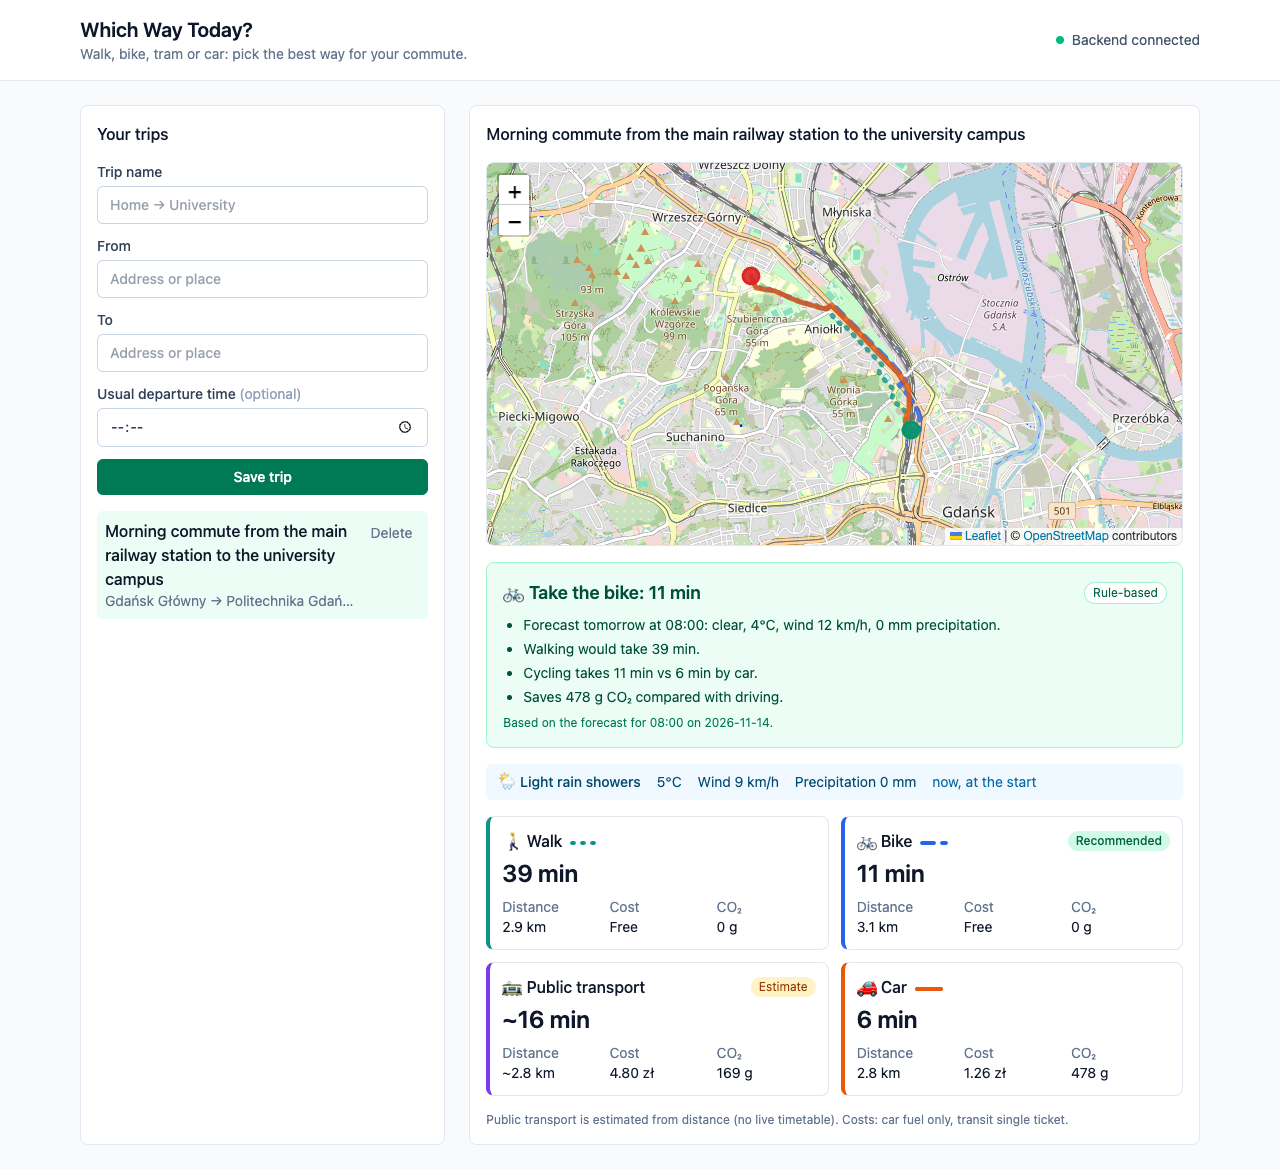
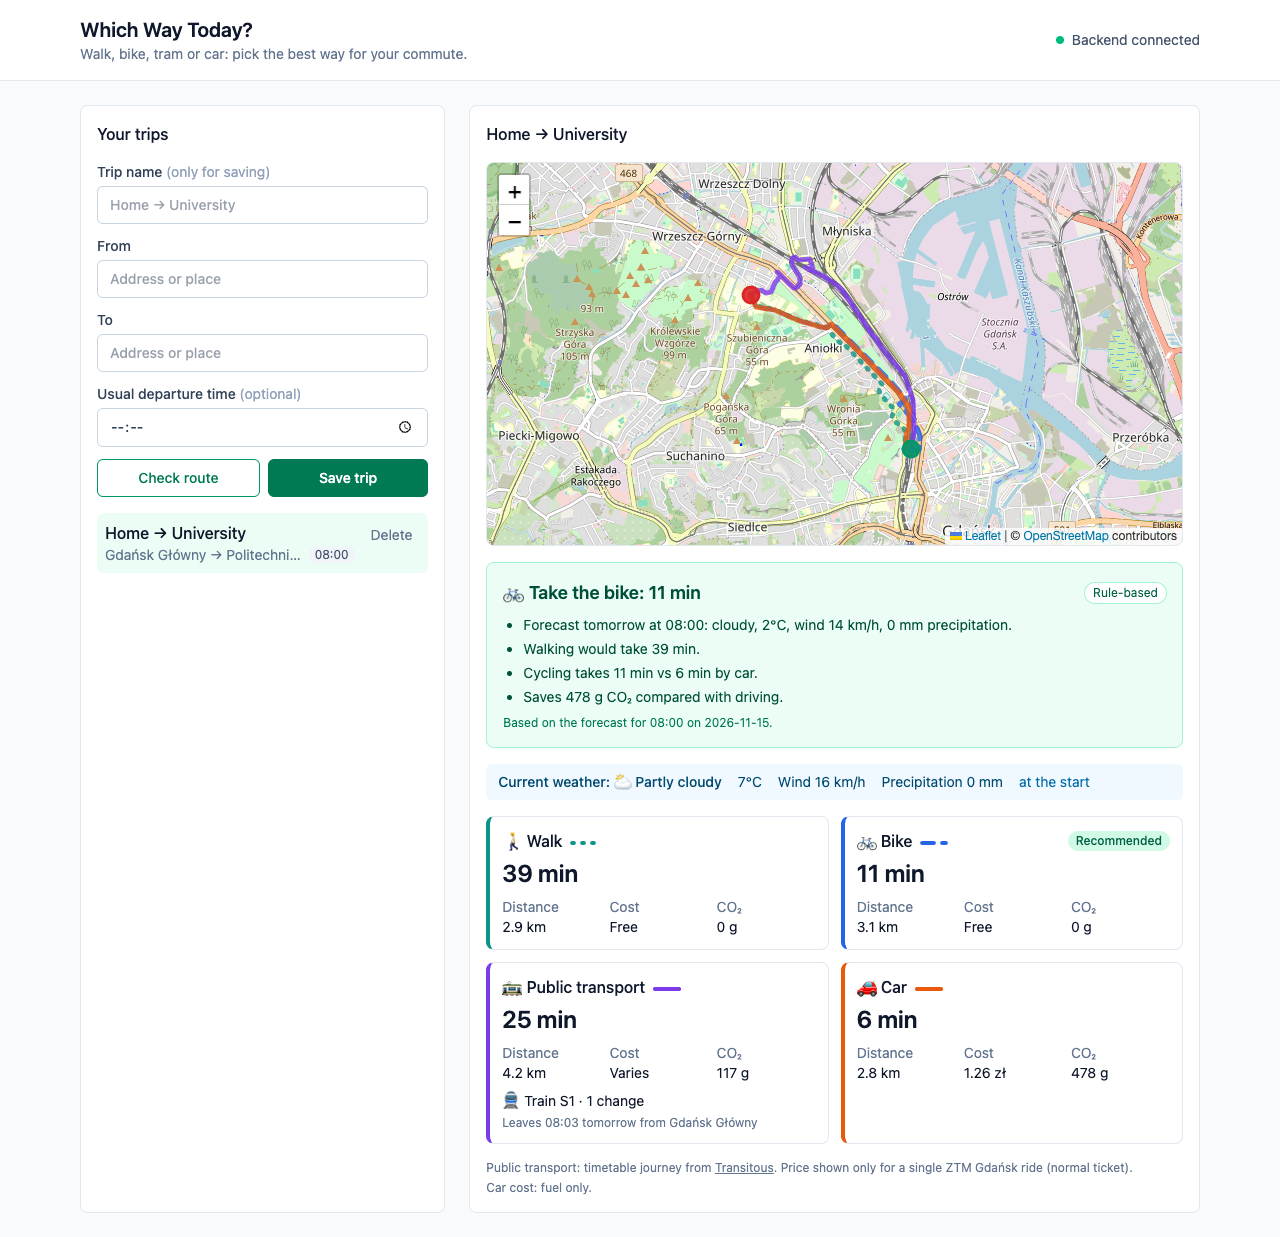
docs: fix outdated statements and refresh screenshots
- README: test counts (185 backend / 127 frontend); new desktop and
  phone screenshots showing real public transport and "Check route".
- CLAUDE.md: drop `pytest --cov` (pytest-cov isn't installed); CORS
  origin is localhost:5173 in dev and Docker; no `uv` (venv + pip, and
  scripts/docker-smoke.sh for the fresh-clone check); Transitous in the
  external-API rule.
- backend/CLAUDE.md: only the trips router uses Depends(...); the
  comparison, recommendation and geocoding services are plain functions.
- pyproject: drop unused fastapi.Path/Body from ruff's immutable calls.

diff --git a/CLAUDE.md b/CLAUDE.md
@@ -23,7 +23,8 @@ frontend/   React + Vite + TypeScript. TanStack Query for server state, Tailwind
 ```
 
 Backend and frontend are independent deployables talking over HTTP (REST, JSON). CORS is
-configured on the backend for local dev (Vite on :5173) and Docker (nginx on :80).
+configured on the backend for the browser origin, `localhost:5173` both in local dev
+(Vite) and in Docker (nginx in the container, published on host port 5173).
 
 Request flow: `router` (HTTP concerns, status codes) -> `service` (business logic: unit
 conversion, scoring, orchestrating external API clients) -> `repository` (SQLModel
@@ -36,7 +37,6 @@ Backend (run from `backend/`):
 - `uvicorn app.main:app --reload` — run the API on :8000
 - `pytest` — run tests
 - `ruff check . && ruff format .` — lint + format
-- `pytest --cov=app` — coverage (optional, nice to have)
 
 Frontend (run from `frontend/`):
 - `npm run dev` — Vite dev server on :5173
@@ -54,14 +54,14 @@ Docker (run from repo root):
   one feature/step at a time.
 - **Keep `backend/Dockerfile` and `frontend/Dockerfile` in sync whenever dependencies
   change** (requirements.txt / package.json). Docker is tested against a fresh clone
-  before submission, not just local `uv`/`npm` state.
+  before submission, not just local venv/`npm` state (`scripts/docker-smoke.sh`).
 - **The app must work with zero configuration and no AI API key.** If `OPENAI_API_KEY`
   (or equivalent) is unset, the recommendation service falls back to a deterministic
   rule-based recommendation. Never make the AI key a hard dependency for any endpoint.
-- External APIs (Nominatim, OSRM, Open-Meteo) are free/keyless but rate-limited and
-  sometimes flaky — always have a documented static fallback (e.g. static CO2/cost
-  factors for public transport) and handle timeouts gracefully, don't let one slow
-  upstream call hang an endpoint.
+- External APIs (Nominatim, OSRM, Transitous, Open-Meteo) are free/keyless but
+  rate-limited and sometimes flaky — always have a documented static fallback (e.g. the
+  public transport estimate when Transitous fails) and handle timeouts gracefully, don't
+  let one slow upstream call hang an endpoint.
 - Nominatim requires a descriptive `User-Agent` header — see `backend/CLAUDE.md`.
 - No premature abstraction: this is an MVP under a hard deadline. Prefer three similar
   lines over a speculative helper used once.

diff --git a/backend/CLAUDE.md b/backend/CLAUDE.md
@@ -5,8 +5,10 @@ FastAPI + SQLModel + SQLite. See root [CLAUDE.md](../CLAUDE.md) for the full pic
 - Layout: `app/routers`, `app/services`, `app/repositories`, `app/clients` (Nominatim,
   OSRM, Transitous, Open-Meteo, LLM), `app/models.py` (SQLModel tables), `app/schemas.py` (Pydantic
   request/response DTOs, kept separate from DB models).
-- Routers depend on services via `Depends(...)`; services depend on repositories the same
-  way. This makes services unit-testable with a fake/in-memory repository.
+- Routers call services, never the DB. Trips: the router gets a `TripService` via
+  `Depends(...)`, which gets its `TripRepository` the same way (unit-testable with a fake
+  repository). Comparison, recommendation and geocoding services are plain functions the
+  routers call directly; they use clients, not the DB.
 - All external HTTP calls (Nominatim/OSRM/Transitous/Open-Meteo/OpenAI) go through `app/clients/*`, each
   with a short timeout and a typed return value — never call `httpx`/`requests` directly
   from a service.

diff --git a/README.md b/README.md
@@ -87,7 +87,7 @@ cd backend
 python3.12 -m venv .venv && source .venv/bin/activate
 pip install -r requirements-dev.txt
 uvicorn app.main:app --reload
-pytest                      # 122 tests
+pytest                      # 185 tests
 ruff check . && ruff format .
 ```
 
@@ -96,7 +96,7 @@ ruff check . && ruff format .
 cd frontend
 npm ci
 npm run dev
-npm test                    # 105 tests (Vitest + Testing Library)
+npm test                    # 127 tests (Vitest + Testing Library)
 npm run lint && npm run build
 npm run format              # prettier (pinned); format:check to verify
 ```
